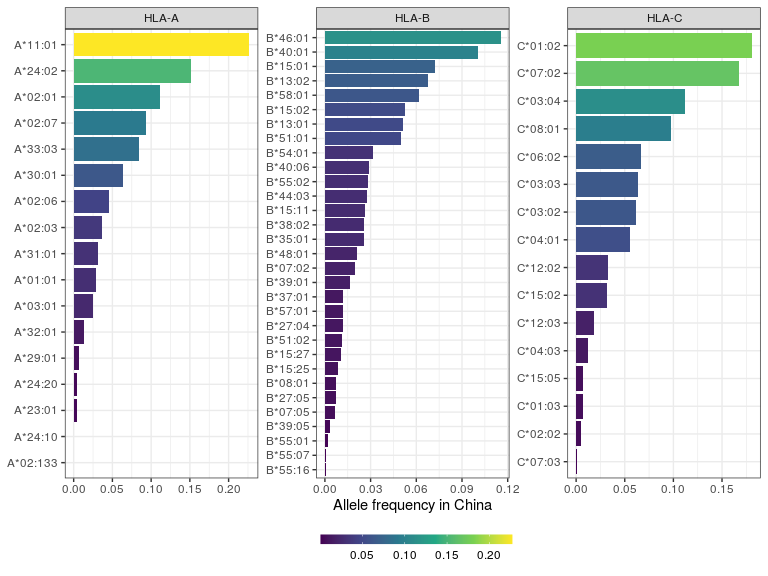
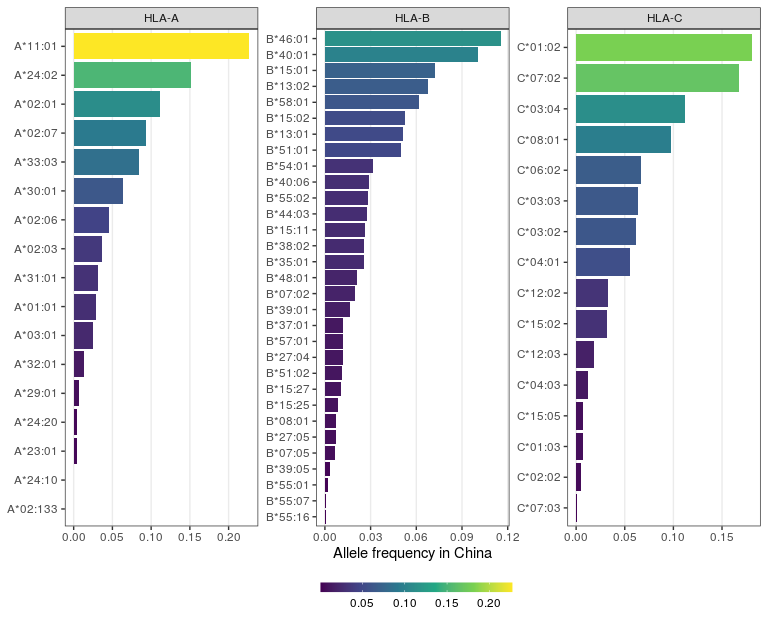
minor edits

diff --git a/eda.md b/eda.md
@@ -92,17 +92,16 @@ get_frequency <- function(allele) {
         sprintf(sub("HLA-", "", allele)) %>%
         read_html()
 
-    nodes <- html_nodes(hlahtml, "table")
-
-    if (grepl("Sorry, we did not find any results", nodes[[4]]))
-    return(NA)
-
-    nodes[[5]] %>%
+    hlatbl <- html_node(hlahtml, "table.tblNormal")
+    
+    if (class(hlatbl) == "xml_missing") return(tibble(allele = allele, f = NA))
+    
+    hlatbl %>%
         html_table(fill = TRUE, header = TRUE) %>%
         select(2, 4, 6, 8) %>%
         as_tibble() %>%
-        setNames(c("allele_db", "population", "f", "sample_size")) %>%
-        mutate(sample_size = as.integer(sub(",", "", sample_size)))
+        setNames(c("allele", "population", "f", "n")) %>%
+        mutate(n = as.integer(sub(",", "", n)))
 }
 ```
 
@@ -113,31 +112,31 @@ get_frequency("A*01:01")
 ```
 
     # A tibble: 19 x 4
-       allele_db population                                   f sample_size
-       <chr>     <chr>                                    <dbl>       <int>
-     1 A*01:01   China Beijing                           0.037           67
-     2 A*01:01   China Beijing Shijiazhuang Tianjian Han 0.034          618
-     3 A*01:01   China Canton Han                        0.006          264
-     4 A*01:01   China Guangzhou                         0.01           102
-     5 A*01:01   China Guizhou Province Bouyei           0.005          109
-     6 A*01:01   China Guizhou Province Miao pop 2       0               85
-     7 A*01:01   China Guizhou Province Shui             0              153
-     8 A*01:01   China Hubei Han                         0.0229        3732
-     9 A*01:01   China Inner Mongolia Region             0.054          102
-    10 A*01:01   China Jiangsu Han                       0.037         3238
-    11 A*01:01   China Jiangsu Province Han              0.0174         334
-    12 A*01:01   China North Han                         0              105
-    13 A*01:01   China Qinghai Province Hui              0.055          110
-    14 A*01:01   China Shanxi HIV negative               0.091           22
-    15 A*01:01   China Sichuan HIV negative              0.059           34
-    16 A*01:01   China South Han                         0.005          284
-    17 A*01:01   China Uyghur HIV negative               0.026           19
-    18 A*01:01   China Yunnan Province Han               0.015          101
-    19 A*01:01   Germany DKMS - China minority           0.038         1282
+       allele  population                                   f     n
+       <chr>   <chr>                                    <dbl> <int>
+     1 A*01:01 China Beijing                           0.037     67
+     2 A*01:01 China Beijing Shijiazhuang Tianjian Han 0.034    618
+     3 A*01:01 China Canton Han                        0.006    264
+     4 A*01:01 China Guangzhou                         0.01     102
+     5 A*01:01 China Guizhou Province Bouyei           0.005    109
+     6 A*01:01 China Guizhou Province Miao pop 2       0         85
+     7 A*01:01 China Guizhou Province Shui             0        153
+     8 A*01:01 China Hubei Han                         0.0229  3732
+     9 A*01:01 China Inner Mongolia Region             0.054    102
+    10 A*01:01 China Jiangsu Han                       0.037   3238
+    11 A*01:01 China Jiangsu Province Han              0.0174   334
+    12 A*01:01 China North Han                         0        105
+    13 A*01:01 China Qinghai Province Hui              0.055    110
+    14 A*01:01 China Shanxi HIV negative               0.091     22
+    15 A*01:01 China Sichuan HIV negative              0.059     34
+    16 A*01:01 China South Han                         0.005    284
+    17 A*01:01 China Uyghur HIV negative               0.026     19
+    18 A*01:01 China Yunnan Province Han               0.015    101
+    19 A*01:01 Germany DKMS - China minority           0.038   1282
 
 Vamos aplicar a todos os alelos dos pacientes. Como são várias
 amostragens na China, vou tirar uma média ponderada da frequência
-alélica dados os tamanhos amostrais.
+alélica dados os tamanhos amostrais, para cada alelo.
 
 Aplicar a todos os alelos pode levar alguns minutos, então vou
 paralelizar com `furrr`.
@@ -147,15 +146,21 @@ library(furrr)
 
 plan(multisession, workers = 8)
 
-allele_freqs <- hlatypes %>% 
-    drop_na() %>%
+unique_df <- hlatypes %>% 
+    drop_na(allele) %>%
     distinct(locus, allele) %>%
-    mutate(data = future_map(allele, get_frequency)) %>%
-    unnest(data) %>%
+    arrange(locus, allele)
+
+allele_freqs <- future_map_dfr(unique_df$allele, get_frequency) %>%
+    left_join(unique_df, .) %>%
     group_by(locus, allele) %>%
-    summarise(wf = weighted.mean(f, sample_size)) %>%
+    summarise(wf = weighted.mean(f, n)) %>%
     ungroup()
 
+#saveRDS(allele_freqs, "allele_freqs.rds")
+```
+
+``` r
 allele_freqs
 ```
 
@@ -194,16 +199,15 @@ get_rare <- function(allele) {
     hlaurl <- "http://www.allelefrequencies.net/hla6002a.asp?all_name=%s"
 
     hlahtml <- hlaurl %>%
-    sprintf(sub("HLA-", "", allele)) %>%
-    read_html()
+        sprintf(sub("HLA-", "", allele)) %>%
+        read_html()
 
-    nodes <- html_nodes(hlahtml, "table")
-
-    nodes[[4]] %>%
-    html_table(fill = TRUE, header = TRUE) %>%
-    select(2, 4, 6) %>%
-    as_tibble() %>%
-    setNames(c("population", "f", "sample_size"))
+    html_node(hlahtml, "table.tblNormal") %>%
+        html_table(fill = TRUE, header = TRUE) %>%
+        select(2, 4, 6) %>%
+        as_tibble() %>%
+        setNames(c("population", "f", "n")) %>%
+        filter(f > 0)
 }
 ```
 
@@ -211,13 +215,12 @@ Aplico essa função aos alelos:
 
 ``` r
 get_rare("A*02:133") %>%
-    filter(f > 0) %>%
     knitr::kable(format.args = list(scientific = FALSE))
 ```
 
-| population                      |      f | sample\_size |
-| :------------------------------ | -----: | -----------: |
-| Germany DKMS - Austria minority | 0.0003 |         1698 |
+| population                      |      f |    n |
+| :------------------------------ | -----: | ---: |
+| Germany DKMS - Austria minority | 0.0003 | 1698 |
 
 Vemos que o `A*02:133` não foi descrito na China (nesse banco de dados),
 apenas possui uma frequência muita baixa numa outra população.
@@ -225,19 +228,23 @@ apenas possui uma frequência muita baixa numa outra população.
 No entanto, para os outros alelos, podemos plotar a frequência:
 
 ``` r
+library(ggthemes)
+
 allele_freqs %>%
     mutate(allele = fct_reorder(allele, -wf)) %>%
     ggplot(aes(x = wf, y = allele, fill = wf)) +
-    geom_col() +
+    geom_col(color = "grey50", size = .25) +
     scale_y_discrete(limits = rev) +
     facet_wrap(~locus, scales = "free", nrow = 1) +
-    scale_fill_continuous(type = "viridis",
-                          guide = guide_colourbar(direction = "horizontal",
-                                                  barwidth = 10,
-                                                   barheight = .5)) +
+    scale_fill_continuous_tableau(guide = guide_colourbar(direction = "horizontal",
+                                                          barwidth = 10,
+                                                          barheight = .5)) +
     labs(x = "Allele frequency in China", y = NULL, fill = NULL) +
     theme_bw() +
-    theme(legend.position = "bottom")
+    theme(legend.position = "bottom",
+          panel.grid.major.y = element_blank(),
+          panel.grid.minor.y = element_blank(),
+          panel.grid.minor.x = element_blank())
 ```
 
-![](eda_files/figure-gfm/unnamed-chunk-10-1.png)<!-- -->
+![](eda_files/figure-gfm/unnamed-chunk-12-1.png)<!-- -->
